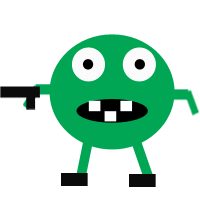
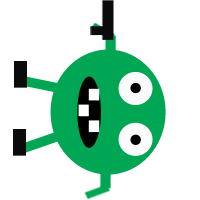
added player shooting and created enemy sprite

diff --git a/2020 Game/2020 Game/Bullet.cs b/2020 Game/2020 Game/Bullet.cs
@@ -11,6 +11,37 @@ namespace _2020_Game
     class Bullet
     {
         public int x, y, width, height;
-
+        public int bulletRotated;
+        public double xSpeed, ySpeed;
+        public Image bullet;
+        public Rectangle bulletRec;
+        public Matrix matrixBullet;
+        Point centreBullet;
+        public Bullet(Rectangle playerRec, int bulletRotate)
+        {
+            width = 10;
+            height = 20;
+            bullet = Properties.Resources.Bullet;
+            bulletRec = new Rectangle(x, y, width, height);
+            xSpeed = 30 * (Math.Cos((bulletRotate - 90) * Math.PI / 180));
+            ySpeed = 30 * (Math.Sin((bulletRotate + 90) * Math.PI / 180));
+            x = playerRec.X + playerRec.Width / 2;
+            y = playerRec.Y + playerRec.Height / 2;
+            bulletRotated = bulletRotate;
+        }
+        public void drawBullet(Graphics g)
+        {
+            centreBullet = new Point(x, y);
+            matrixBullet = new Matrix();
+            matrixBullet.RotateAt(bulletRotated, centreBullet);
+            g.Transform = matrixBullet;
+            g.DrawImage(bullet, bulletRec);
+        }
+        public void moveBullet(Graphics g)
+        {
+            x += (int)xSpeed;
+            y -= (int)ySpeed;
+            bulletRec.Location = new Point(x, y);
+        }
     }
 }

diff --git a/2020 Game/2020 Game/Form1.cs b/2020 Game/2020 Game/Form1.cs
@@ -16,6 +16,7 @@ namespace _2020_Game
         Graphics g;
         Player player = new Player();
         bool turnLeft, turnRight;
+        List<Bullet> bullets = new List<Bullet>();
         public Form1()
         {
             InitializeComponent();
@@ -37,6 +38,11 @@ namespace _2020_Game
             g = e.Graphics;
             player.drawPlayer(g);
             Cursor.Hide();
+            foreach (Bullet m in bullets)
+            {
+                m.drawBullet(g);
+                m.moveBullet(g);
+            }
         }
 
         private void tmrPlayer_Tick(object sender, EventArgs e)
@@ -56,6 +62,19 @@ namespace _2020_Game
         {
             if (e.KeyData == Keys.Left) { turnLeft = true; }
             if (e.KeyData == Keys.Right) { turnRight = true; }
+        }
+
+        private void pnlGame_MouseClick(object sender, MouseEventArgs e)
+        {
+
+        }
+
+        private void pnlGame_MouseDown(object sender, MouseEventArgs e)
+        {
+            if (e.Button == MouseButtons.Left)
+            {
+                bullets.Add(new Bullet(player.playerRec, player.rotationAngle));
+            }
         }
 
         private void Form1_KeyUp(object sender, KeyEventArgs e)

diff --git a/2020 Game/2020 Game/Properties/Resources.Designer.cs b/2020 Game/2020 Game/Properties/Resources.Designer.cs
@@ -63,6 +63,26 @@ namespace _2020_Game.Properties {
         /// <summary>
         ///   Looks up a localized resource of type System.Drawing.Bitmap.
         /// </summary>
+        internal static System.Drawing.Bitmap Bullet {
+            get {
+                object obj = ResourceManager.GetObject("Bullet", resourceCulture);
+                return ((System.Drawing.Bitmap)(obj));
+            }
+        }
+        
+        /// <summary>
+        ///   Looks up a localized resource of type System.Drawing.Bitmap.
+        /// </summary>
+        internal static System.Drawing.Bitmap enemy {
+            get {
+                object obj = ResourceManager.GetObject("enemy", resourceCulture);
+                return ((System.Drawing.Bitmap)(obj));
+            }
+        }
+        
+        /// <summary>
+        ///   Looks up a localized resource of type System.Drawing.Bitmap.
+        /// </summary>
         internal static System.Drawing.Bitmap ogre1 {
             get {
                 object obj = ResourceManager.GetObject("ogre1", resourceCulture);

diff --git a/2020 Game/2020 Game/Form1.Designer.cs b/2020 Game/2020 Game/Form1.Designer.cs
@@ -66,6 +66,8 @@
             this.pnlGame.Size = new System.Drawing.Size(718, 394);
             this.pnlGame.TabIndex = 1;
             this.pnlGame.Paint += new System.Windows.Forms.PaintEventHandler(this.panel1_Paint);
+            this.pnlGame.MouseClick += new System.Windows.Forms.MouseEventHandler(this.pnlGame_MouseClick);
+            this.pnlGame.MouseDown += new System.Windows.Forms.MouseEventHandler(this.pnlGame_MouseDown);
             this.pnlGame.MouseMove += new System.Windows.Forms.MouseEventHandler(this.panel1_MouseMove);
             // 
             // menuStrip1

diff --git a/2020 Game/2020 Game/Enemy.cs b/2020 Game/2020 Game/Enemy.cs
@@ -1,0 +1,23 @@
+using System;
+using System.Collections.Generic;
+using System.Linq;
+using System.Text;
+using System.Drawing;
+using System.Threading.Tasks;
+
+namespace _2020_Game
+{
+    class Enemy
+    {
+        public int x, y, width, height;
+        public Image enemyImage;
+        public Rectangle enmyRec;
+        public Enemy(int spacing)
+        {
+            x = spacing;
+            y = 10;
+            width = 20;
+            height = 20;
+        }
+    }
+}
